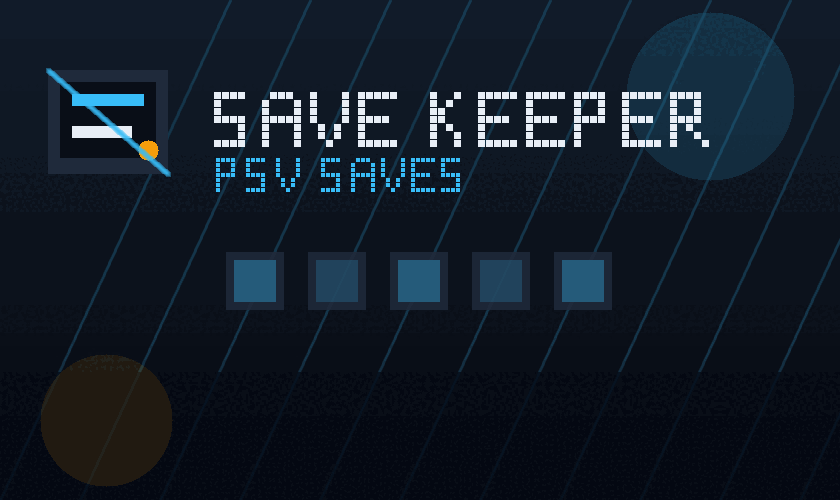
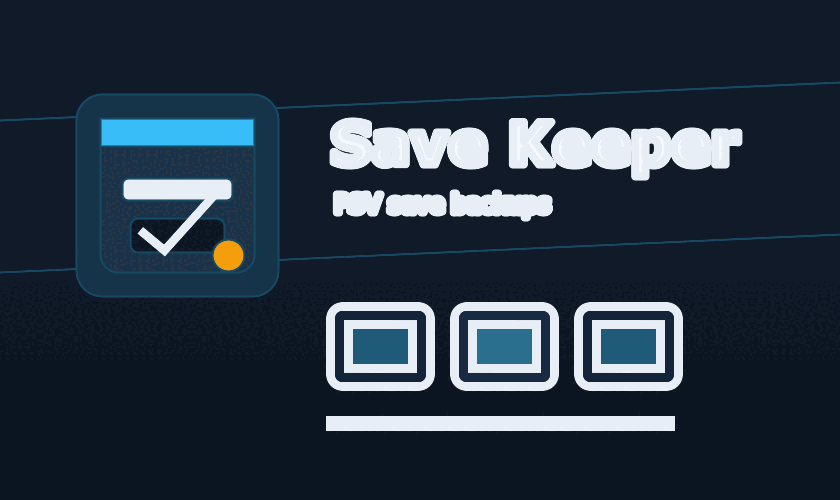
polish vita metadata and visuals
- match SaveCloud Vita app.db open mode for title/icon lookup

- replace rough package art with cleaner indexed LiveArea assets

- quiet selected tile styling and improve placeholder icons

diff --git a/src/vita/ui/Ui.cpp b/src/vita/ui/Ui.cpp
@@ -13,15 +13,14 @@
 namespace vsm::vita {
 namespace {
 
-constexpr unsigned int kColorBackground = RGBA8(11, 15, 21, 255);
-constexpr unsigned int kColorHeader = RGBA8(26, 35, 50, 255);
-constexpr unsigned int kColorPanel = RGBA8(21, 29, 42, 255);
-constexpr unsigned int kColorPanelAlt = RGBA8(31, 42, 59, 255);
+constexpr unsigned int kColorBackground = RGBA8(8, 13, 21, 255);
+constexpr unsigned int kColorHeader = RGBA8(17, 24, 36, 255);
+constexpr unsigned int kColorPanel = RGBA8(16, 24, 36, 255);
+constexpr unsigned int kColorPanelAlt = RGBA8(25, 37, 55, 255);
 constexpr unsigned int kColorAccent = RGBA8(56, 189, 248, 255);
-constexpr unsigned int kColorAccentSoft = RGBA8(56, 189, 248, 48);
+constexpr unsigned int kColorAccentSoft = RGBA8(56, 189, 248, 40);
 constexpr unsigned int kColorText = RGBA8(232, 238, 246, 255);
-constexpr unsigned int kColorMuted = RGBA8(148, 163, 184, 255);
-constexpr unsigned int kColorDarkText = RGBA8(15, 23, 42, 255);
+constexpr unsigned int kColorMuted = RGBA8(166, 178, 198, 255);
 
 constexpr float kTextScaleSmall = 0.82f;
 constexpr float kTextScaleNormal = 0.98f;
@@ -142,12 +141,18 @@ void draw_texture_fit(vita2d_texture *texture, int x, int y, int size) {
 
 void draw_placeholder_icon(vita2d_pgf *font, const SaveRecord &save, int x, int y, int size,
                            bool selected) {
-  vita2d_draw_rectangle(x, y, size, size,
-                        selected ? RGBA8(219, 234, 254, 255) : RGBA8(44, 58, 78, 255));
-  vita2d_draw_line(x + 10, y + size - 18, x + size - 10, y + 18,
-                   selected ? RGBA8(56, 189, 248, 180) : RGBA8(56, 189, 248, 90));
+  const unsigned int tile = selected ? RGBA8(29, 49, 69, 255) : RGBA8(35, 49, 69, 255);
+  vita2d_draw_rectangle(x, y, size, size, tile);
+  const int card_x = x + size / 5;
+  const int card_y = y + size / 6;
+  const int card_w = size - (size / 5) * 2;
+  const int card_h = size / 2;
+  vita2d_draw_rectangle(card_x, card_y, card_w, card_h, RGBA8(12, 20, 32, 255));
+  vita2d_draw_rectangle(card_x, card_y, card_w, 8, kColorAccent);
+  vita2d_draw_rectangle(card_x + 10, card_y + 22, card_w - 20, 7, RGBA8(232, 238, 246, 255));
+  vita2d_draw_rectangle(card_x + 14, card_y + 38, card_w - 28, 12, RGBA8(21, 33, 49, 255));
   const std::string text = placeholder_text(save);
-  draw_text(font, x + 20, y + (size / 2) + 12, selected ? kColorDarkText : kColorText, 1.0f,
+  draw_text(font, x + 22, y + size - 12, selected ? kColorText : RGBA8(198, 210, 226, 255), 0.82f,
             text.c_str());
 }
 
@@ -155,7 +160,7 @@ void draw_button_shape(int x, int y, ButtonSymbol symbol, unsigned int color,
                        vita2d_pgf *font) {
   switch (symbol) {
   case ButtonSymbol::Circle:
-    vita2d_draw_fill_circle(x + 8, y + 8, 8, RGBA8(255, 255, 255, 18));
+    vita2d_draw_fill_circle(x + 8, y + 8, 8, color);
     vita2d_draw_fill_circle(x + 8, y + 8, 5, RGBA8(3, 7, 18, 230));
     break;
   case ButtonSymbol::Cross:
@@ -251,7 +256,7 @@ void Ui::draw(const std::vector<SaveRecord> &saves, std::size_t selected_save,
 
 void Ui::draw_header(bool google_connected, bool google_auth_pending) const {
   vita2d_draw_rectangle(0, 0, 960, 52, kColorHeader);
-  vita2d_draw_line(0, 52, 960, 52, RGBA8(255, 255, 255, 28));
+  vita2d_draw_line(0, 52, 960, 52, RGBA8(255, 255, 255, 20));
 
   draw_text(font_, 18, 34, kColorText, kTextScaleTitle, "Save Keeper");
   const char *drive_status = google_connected       ? "Google Drive connected"
@@ -262,7 +267,7 @@ void Ui::draw_header(bool google_connected, bool google_auth_pending) const {
 
 void Ui::draw_title_grid(const std::vector<SaveRecord> &saves, std::size_t selected_save) const {
   vita2d_draw_rectangle(0, 52, 432, 456, kColorPanel);
-  vita2d_draw_line(432, 52, 432, 508, RGBA8(255, 255, 255, 28));
+  vita2d_draw_line(432, 52, 432, 508, RGBA8(255, 255, 255, 20));
 
   draw_text(font_, 18, 84, kColorText, kTextScaleNormal, "Saves");
 
@@ -294,16 +299,16 @@ void Ui::draw_title_grid(const std::vector<SaveRecord> &saves, std::size_t selec
       const int x = kStartX + col * (kTileSize + kGapX);
       const int y = kStartY + row * (kTileSize + kGapY);
       if (index >= saves.size()) {
-        vita2d_draw_rectangle(x, y, kTileSize, kTileSize, RGBA8(255, 255, 255, 10));
+        vita2d_draw_rectangle(x, y, kTileSize, kTileSize, RGBA8(255, 255, 255, 8));
         continue;
       }
 
       const bool is_selected = index == selected;
       const SaveRecord &save = saves[index];
       vita2d_draw_rectangle(x - 3, y - 3, kTileSize + 6, kTileSize + 6,
-                            is_selected ? kColorAccent : RGBA8(255, 255, 255, 18));
+                            is_selected ? kColorAccent : RGBA8(255, 255, 255, 14));
       vita2d_draw_rectangle(x, y, kTileSize, kTileSize,
-                            is_selected ? RGBA8(219, 234, 254, 255) : kColorPanelAlt);
+                            is_selected ? RGBA8(25, 45, 64, 255) : kColorPanelAlt);
 
       const int pad = is_selected ? 4 : 8;
       const int icon_size = kTileSize - pad * 2;
@@ -342,8 +347,9 @@ void Ui::draw_backup_panel(const std::vector<SaveRecord> &saves, std::size_t sel
   draw_text(font_, 456, 84, kColorText, kTextScaleNormal, "Backups");
   const SaveRecord *save = selected_record(saves, selected_save);
 
-  const char *google_action = google_user_code.empty() ? "Google: footer button connects / refreshes"
-                                                       : "Scan QR, then press Google again";
+  const char *google_action =
+      google_user_code.empty() ? "Local snapshots and [GD] remote backups"
+                               : "Scan QR, then press Google again";
   draw_text(font_, 456, 112, kColorMuted, 0.78f, google_action);
 
   if (!save) {

diff --git a/src/vita/SaveAppDbMetadata.cpp b/src/vita/SaveAppDbMetadata.cpp
@@ -1,6 +1,7 @@
 #include "vita/SaveAppDbMetadata.hpp"
 
 #include <algorithm>
+#include <cstdio>
 #include <psp2/sysmodule.h>
 #include <string>
 #include <unordered_map>
@@ -12,6 +13,7 @@ int sqlite3_open_v2(const char *filename, sqlite3 **database, int flags, const c
 int sqlite3_close(sqlite3 *database);
 int sqlite3_exec(sqlite3 *database, const char *sql,
                  int (*callback)(void *, int, char **, char **), void *context, char **error);
+const char *sqlite3_errmsg(sqlite3 *database);
 void sqlite3_free(void *value);
 }
 
@@ -19,6 +21,7 @@ namespace vsm::vita {
 namespace {
 
 constexpr int kSqliteOk = 0;
+constexpr int kSqliteOpenReadwrite = 0x00000002;
 constexpr int kSqliteOpenReadonly = 0x00000001;
 constexpr const char *kAppDbPath = "ur0:/shell/db/app.db";
 
@@ -88,6 +91,14 @@ void apply_title_metadata(const AppDbTitle &title, SaveRecord *save) {
   }
 }
 
+std::string format_sqlite_open_error(int result_code, sqlite3 *database) {
+  char message[128];
+  const char *detail = database ? sqlite3_errmsg(database) : "no database handle";
+  std::snprintf(message, sizeof(message), "Could not open Vita app database (%d: %s).",
+                result_code, detail ? detail : "unknown error");
+  return message;
+}
+
 } // namespace
 
 AppDbMetadataResult apply_app_db_metadata(std::vector<SaveRecord> *saves) {
@@ -100,9 +111,21 @@ AppDbMetadataResult apply_app_db_metadata(std::vector<SaveRecord> *saves) {
   sceSysmoduleLoadModule(SCE_SYSMODULE_SQLITE);
 
   sqlite3 *database = nullptr;
-  const int open_result = sqlite3_open_v2(kAppDbPath, &database, kSqliteOpenReadonly, nullptr);
+  // SaveCloud Vita opens the shell app database read/write before querying title/icon metadata.
+  // Matching that mode avoids a Vita-side open failure seen with read-only access on hardware.
+  int open_result = sqlite3_open_v2(kAppDbPath, &database, kSqliteOpenReadwrite, nullptr);
+  if (open_result != kSqliteOk && database) {
+    sqlite3_close(database);
+    database = nullptr;
+  }
   if (open_result != kSqliteOk || !database) {
-    result.error = "Could not open Vita app database.";
+    open_result = sqlite3_open_v2(kAppDbPath, &database, kSqliteOpenReadonly, nullptr);
+  }
+  if (open_result != kSqliteOk || !database) {
+    result.error = format_sqlite_open_error(open_result, database);
+    if (database) {
+      sqlite3_close(database);
+    }
     return result;
   }
 